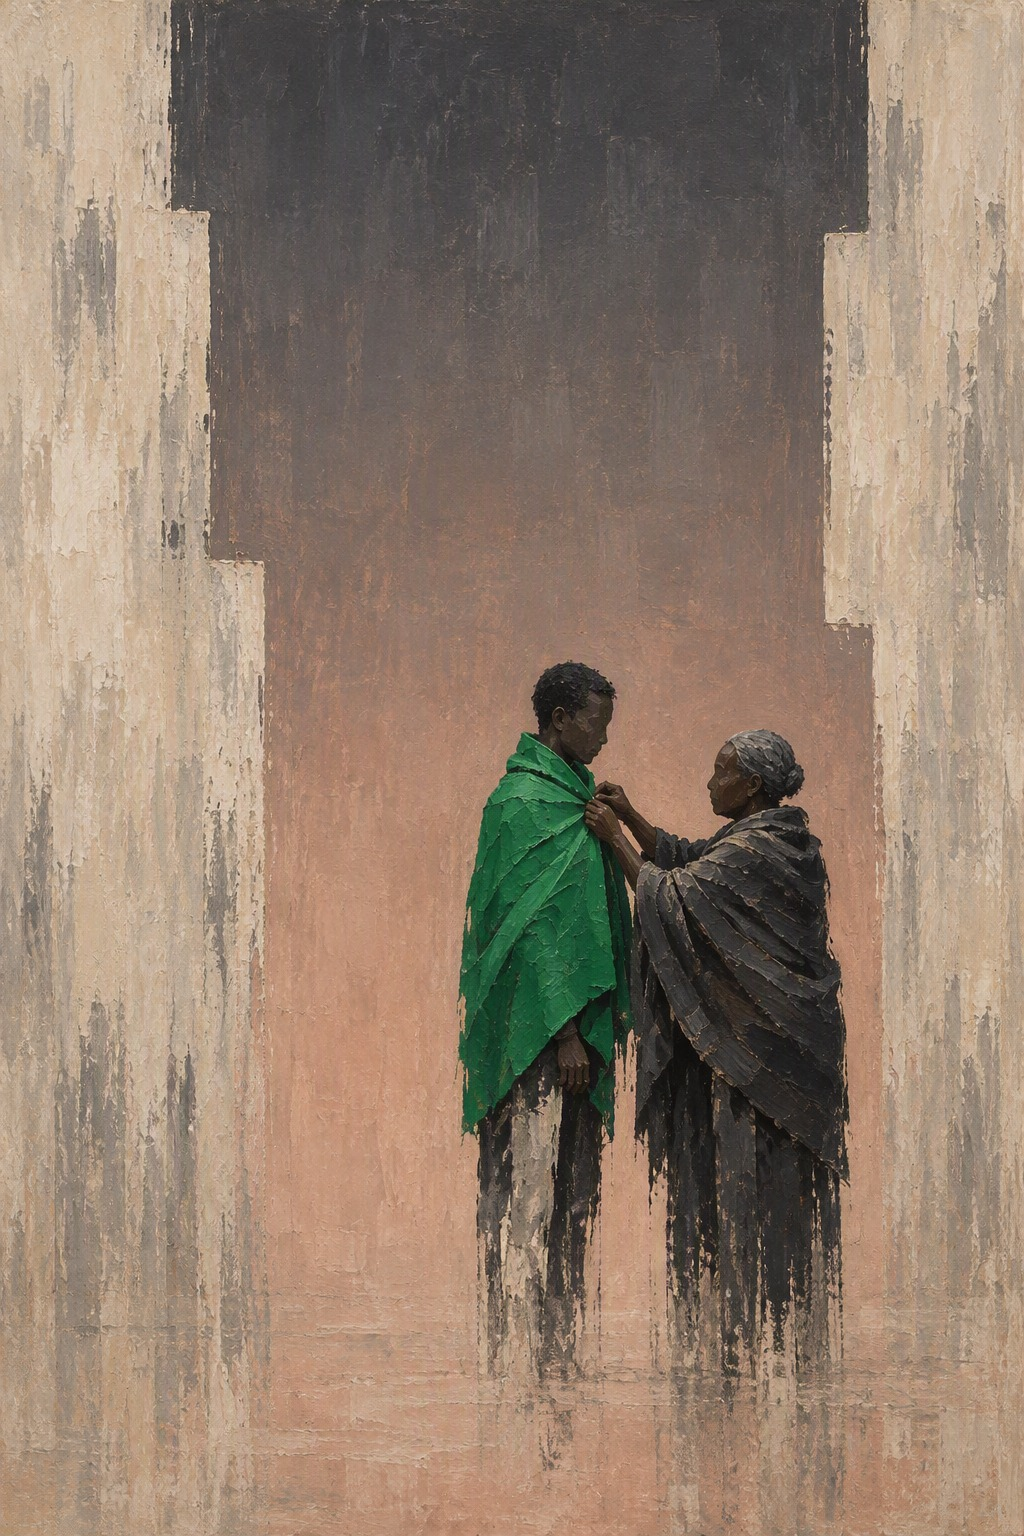
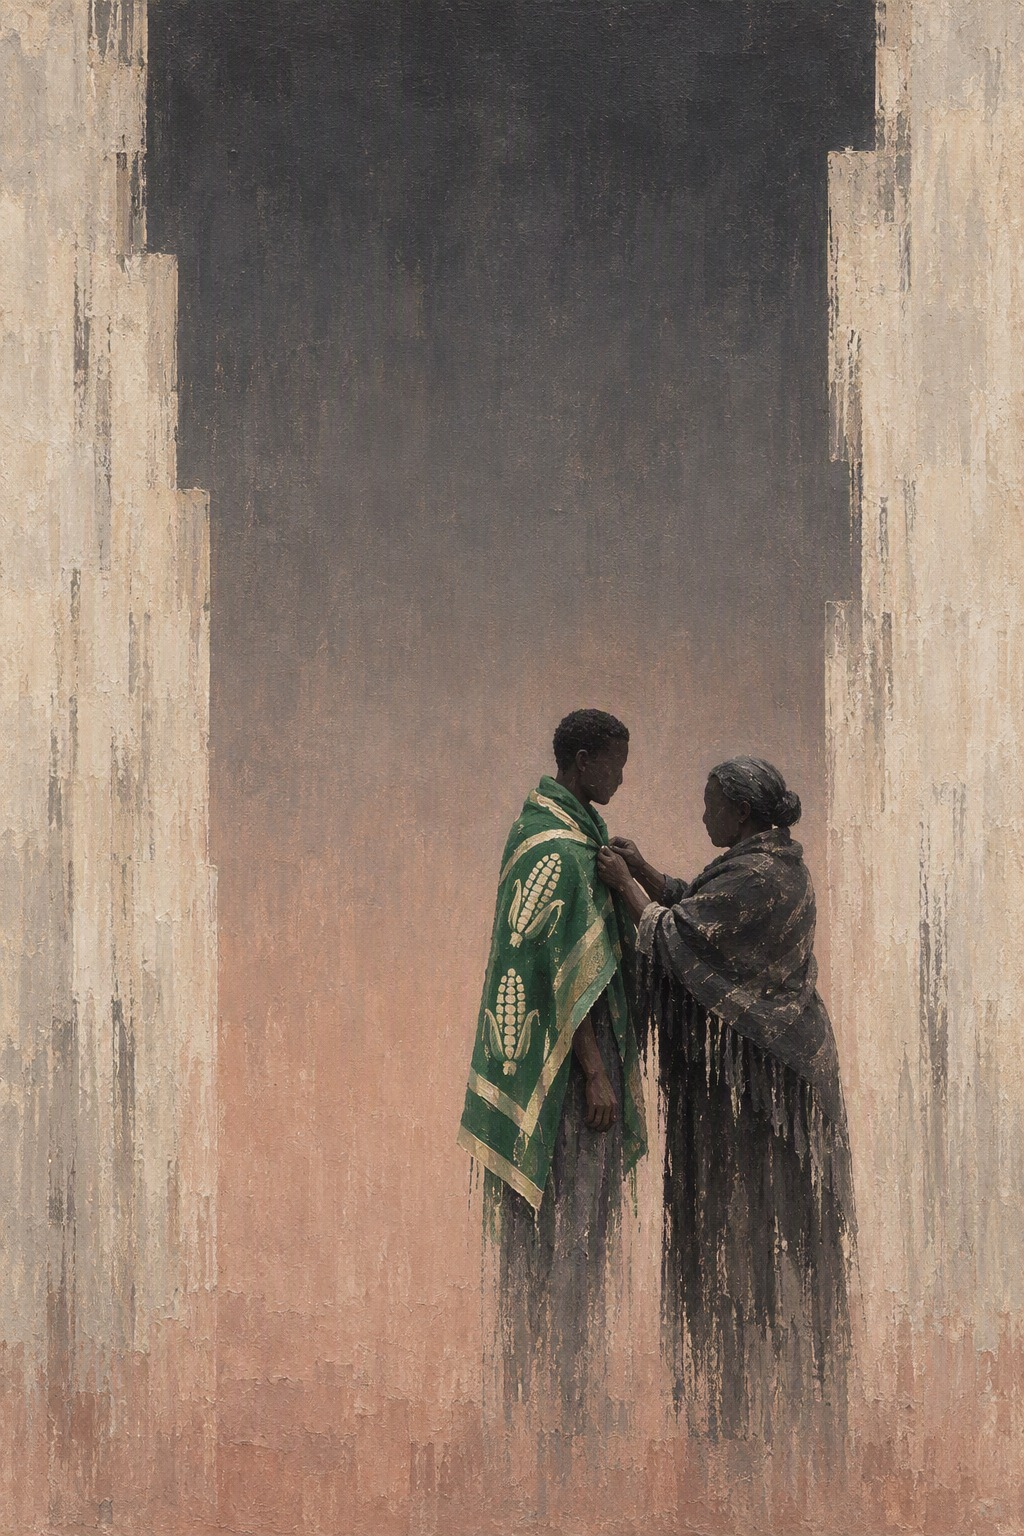
Her Hands Go First: new image with the Basotho blanket pattern restored
New image (the green blanket now carries cream maize-cob motifs and a
border) and matching alt text in ARTWORKS, the static first-page block and
the art page. Caption, story, title and meta description are unchanged.

diff --git a/index.html b/index.html
@@ -821,7 +821,7 @@ function markLoaded(e) {
     <a class="site-head-link" href="/"><h1 class="site-head-title">Benkum Art</h1></a>
     <nav class="site-nav" aria-label="Site"><a href="/about/">about</a><a href="/#write">write</a><a href="https://www.etsy.com/shop/BenkumArt" target="_blank" rel="noopener noreferrer">shop</a><a href="https://www.instagram.com/benkum.art/" target="_blank" rel="me noopener">follow</a></nav>
   </header>
-  <main id="view-root"><div class="stack"><article class="piece is-portrait"><h2 class="piece-title">Where the Heat Was</h2><div class="piece-frame marked marked-b"><img class="piece-img" data-full="/assets/art/where-the-heat-was.jpg" src="/assets/art/where-the-heat-was.webp" alt="A Malawian truck driver in a long brown work coat stands side-on beside an old truck, one hand resting flat on its bright red bonnet, in a pale cold grey field between stepped black-green panels." width="1024" height="1536" style="aspect-ratio: 1024 / 1536" loading="eager" fetchpriority="high"></div><a class="piece-cap" data-id="where-the-heat-was" href="/art/where-the-heat-was/">I keep my hand where the warmth used to be.</a></article><article class="piece is-portrait"><h2 class="piece-title">Her Hands Go First</h2><div class="piece-frame marked"><img class="piece-img" data-full="/assets/art/her-hands-go-first.jpg" src="/assets/art/her-hands-go-first.webp" alt="An older Mosotho woman in a dark shawl presses closed the pin of a bright green Basotho blanket at a young man's shoulder while he stands still, hands at his sides, in a field fading from deep charcoal to warm sandstone pink between pale bone panels." width="1024" height="1536" style="aspect-ratio: 1024 / 1536" loading="lazy"></div><a class="piece-cap" data-id="her-hands-go-first" href="/art/her-hands-go-first/">I could fasten it myself. I let her.</a></article></div><nav class="gallery-more" aria-label="More work"><button class="load-more-btn" id="gallery-earlier" type="button">Earlier work &rarr;</button></nav></main>
+  <main id="view-root"><div class="stack"><article class="piece is-portrait"><h2 class="piece-title">Where the Heat Was</h2><div class="piece-frame marked marked-b"><img class="piece-img" data-full="/assets/art/where-the-heat-was.jpg" src="/assets/art/where-the-heat-was.webp" alt="A Malawian truck driver in a long brown work coat stands side-on beside an old truck, one hand resting flat on its bright red bonnet, in a pale cold grey field between stepped black-green panels." width="1024" height="1536" style="aspect-ratio: 1024 / 1536" loading="eager" fetchpriority="high"></div><a class="piece-cap" data-id="where-the-heat-was" href="/art/where-the-heat-was/">I keep my hand where the warmth used to be.</a></article><article class="piece is-portrait"><h2 class="piece-title">Her Hands Go First</h2><div class="piece-frame marked"><img class="piece-img" data-full="/assets/art/her-hands-go-first.jpg" src="/assets/art/her-hands-go-first.webp" alt="An older Mosotho woman in a dark shawl presses closed the pin of a green Basotho blanket patterned with cream maize cobs at a young man's shoulder while he stands still, hands at his sides, in a field fading from deep charcoal to warm sandstone pink between pale bone panels." width="1024" height="1536" style="aspect-ratio: 1024 / 1536" loading="lazy"></div><a class="piece-cap" data-id="her-hands-go-first" href="/art/her-hands-go-first/">I could fasten it myself. I let her.</a></article></div><nav class="gallery-more" aria-label="More work"><button class="load-more-btn" id="gallery-earlier" type="button">Earlier work &rarr;</button></nav></main>
 
   <footer class="site-foot">
     <p class="signature">
@@ -1092,7 +1092,7 @@ function markLoaded(e) {
       gridImage: "/assets/art/her-hands-go-first.webp",
       title: "Her Hands Go First",
       caption: "I could fasten it myself. I let her.",
-      alt: "An older Mosotho woman in a dark shawl presses closed the pin of a bright green Basotho blanket at a young man's shoulder while he stands still, hands at his sides, in a field fading from deep charcoal to warm sandstone pink between pale bone panels.",
+      alt: "An older Mosotho woman in a dark shawl presses closed the pin of a green Basotho blanket patterned with cream maize cobs at a young man's shoulder while he stands still, hands at his sides, in a field fading from deep charcoal to warm sandstone pink between pale bone panels.",
       glyph: "GLY-021-her-hands-go-first",
       width: 1024,
       height: 1536,

diff --git a/art/her-hands-go-first/index.html b/art/her-hands-go-first/index.html
@@ -620,7 +620,7 @@ function markLoaded(e) {
     <h2 class="story-title">Her Hands Go First</h2>
     <div class="story-layout">
     <div class="story-visual">
-    <div class="story-frame marked"><img class="piece-img" data-full="/assets/art/her-hands-go-first.jpg" src="/assets/art/her-hands-go-first.jpg" srcset="/assets/art/her-hands-go-first.webp 667w, /assets/art/her-hands-go-first.jpg 1024w" sizes="(max-width: 900px) 92vw, 860px" alt="An older Mosotho woman in a dark shawl presses closed the pin of a bright green Basotho blanket at a young man's shoulder while he stands still, hands at his sides, in a field fading from deep charcoal to warm sandstone pink between pale bone panels." width="1024" height="1536" loading="eager"></div>
+    <div class="story-frame marked"><img class="piece-img" data-full="/assets/art/her-hands-go-first.jpg" src="/assets/art/her-hands-go-first.jpg" srcset="/assets/art/her-hands-go-first.webp 667w, /assets/art/her-hands-go-first.jpg 1024w" sizes="(max-width: 900px) 92vw, 860px" alt="An older Mosotho woman in a dark shawl presses closed the pin of a green Basotho blanket patterned with cream maize cobs at a young man's shoulder while he stands still, hands at his sides, in a field fading from deep charcoal to warm sandstone pink between pale bone panels." width="1024" height="1536" loading="eager"></div>
     <p class="story-cap">I could fasten it myself. I let her.</p>
     </div>
     <div class="story-body">
